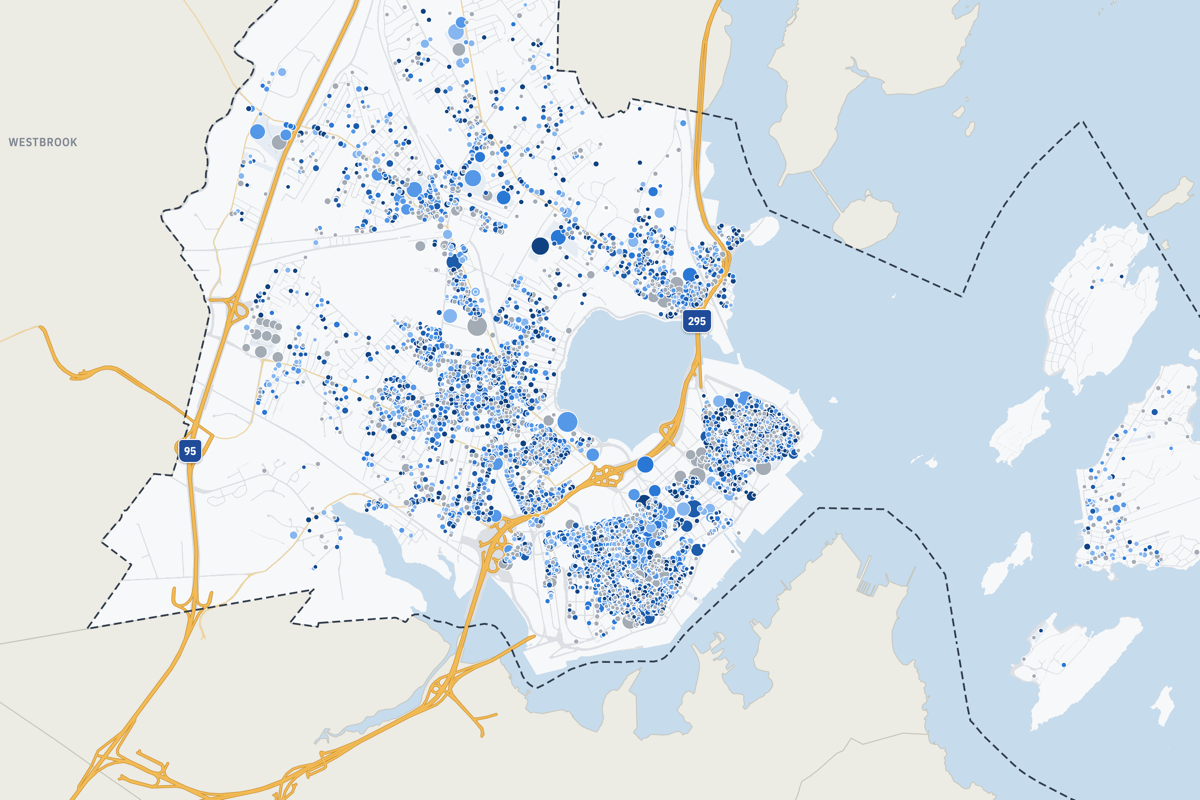
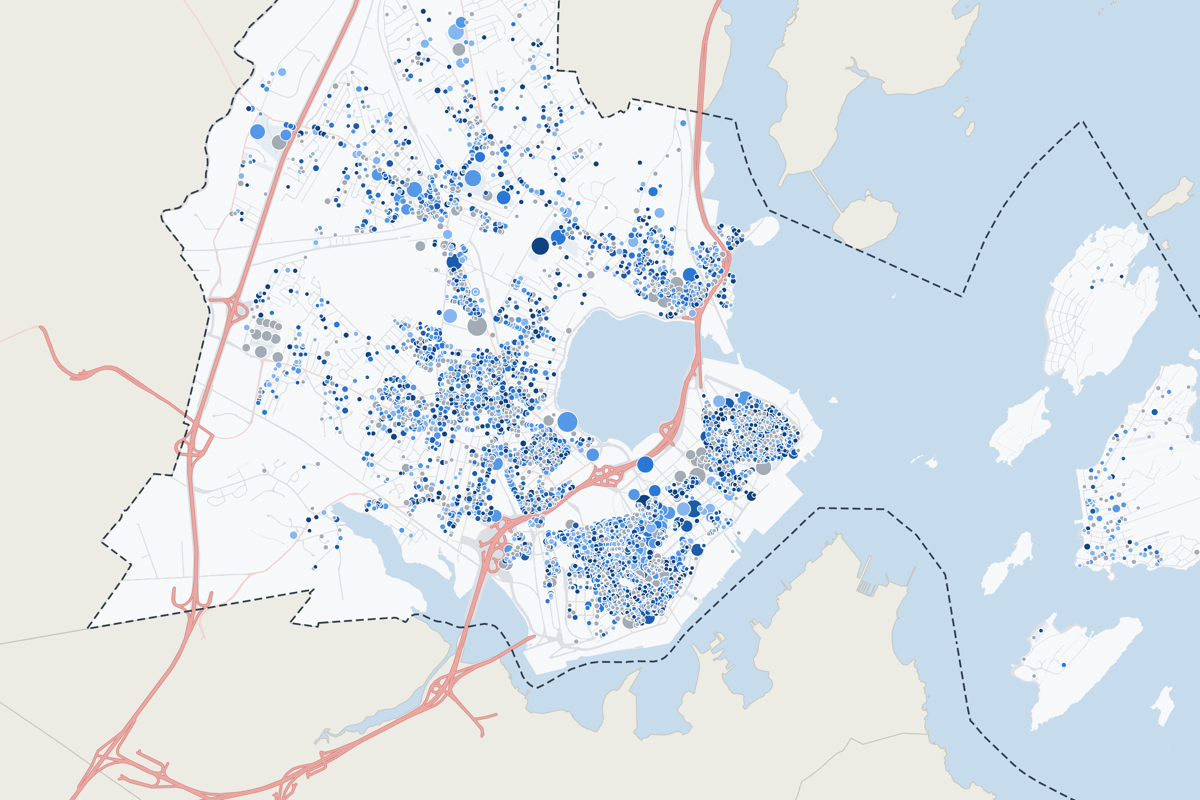
Portland rent map: soft red highways without route labels

diff --git a/files/portland-rent-map/index.html b/files/portland-rent-map/index.html
@@ -22,7 +22,7 @@
   --town-line: #c4c3b8;
   --limit: #2f3b4a;           /* Portland city limit */
   --town-label: #7d8590;
-  --hwy: #f2bb55; --hwy-case: #c98b2b; --art: #ecd3a0;   /* MaineDOT major roads */
+  --hwy: #eba7a2; --hwy-case: #cf817b; --art: #f1d3d0;   /* MaineDOT major roads, soft red */
   --ptu: #d1312b;             /* PTU audit layer */
   --parcel: #f7f8f9;
   --parcel-line: #c3cad3;
@@ -104,7 +104,6 @@ header.top {
 .ptu-dl { display: grid; grid-template-columns: auto 1fr; gap: 3px 12px; margin: 0; font-size: 12.5px; }
 .ptu-dl dt { color: var(--muted); }
 .ptu-dl dd { margin: 0; font-variant-numeric: tabular-nums; }
-.shield { pointer-events: none; font-family: var(--font-head); font-size: 11px; font-weight: 600; color: #fff; background: #1f4b99; border: 1.5px solid #fff; border-radius: 4px 4px 7px 7px; padding: 1px 5px; box-shadow: 0 1px 2px rgb(0 0 0 / .3); }
 .town-label { pointer-events: none; font-family: var(--font-head); font-size: 11.5px; font-weight: 500; letter-spacing: .06em; text-transform: uppercase; color: var(--town-label); white-space: nowrap; text-shadow: 0 0 3px var(--land), 0 0 3px var(--land); }
 .tooltip .m { color: var(--muted); font-variant-numeric: tabular-nums; }
 
@@ -644,11 +643,6 @@ details li { margin-bottom: 3px; }
           layout: { "line-join": "round", "line-cap": "round" }, paint: { "line-color": css("--hwy-case"), "line-width": W(1.6, 3.8, 8) } });
         map.addLayer({ id: "roads-hwy", type: "line", source: "roads", filter: ["==", ["get", "kind"], "hwy"],
           layout: { "line-join": "round", "line-cap": "round" }, paint: { "line-color": css("--hwy"), "line-width": W(0.8, 2.4, 6) } });
-        roads.features.filter(f => f.properties.kind === "shield").forEach(f => {
-          const el = document.createElement("div");
-          el.className = "shield"; el.textContent = f.properties.label;
-          new maplibregl.Marker({ element: el }).setLngLat(f.geometry.coordinates).addTo(map);
-        });
       }
       if (towns) map.addLayer({ id: "limit", type: "line", source: "towns", filter: ["==", ["get", "kind"], "limit"],
         layout: { "line-join": "round" },
